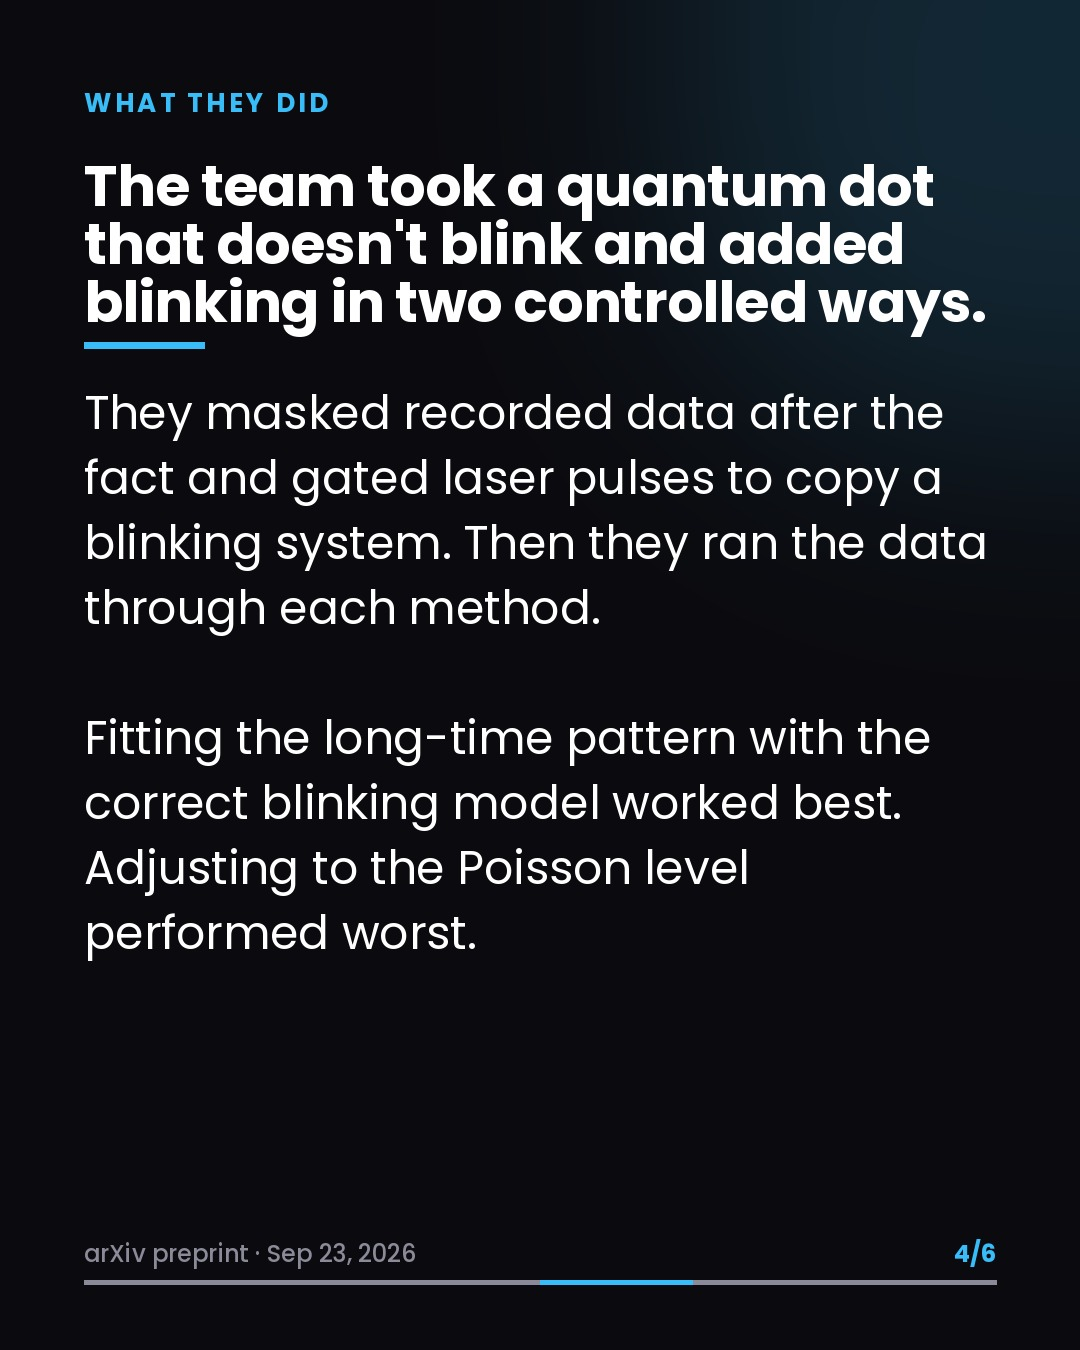
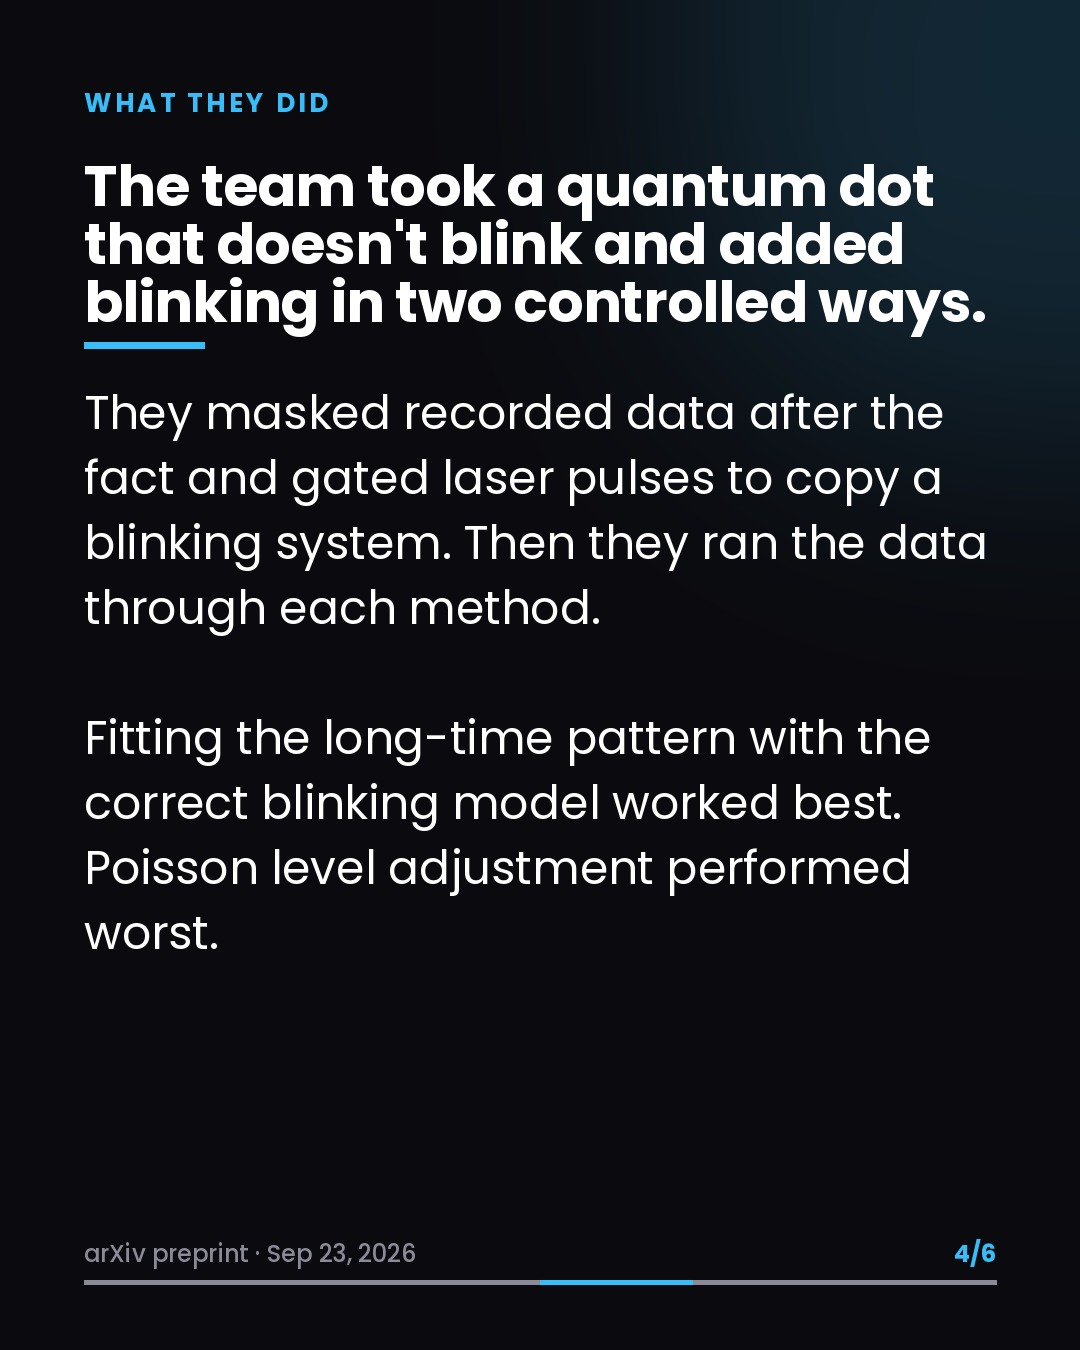
revise: 2026-09-23-physics-7a8d19ad

Changed region(s): [[0.0611, 0.6222, 0.8556, 0.7156]]

diff --git a/data/queue/2026-09-23-physics-7a8d19ad.md b/data/queue/2026-09-23-physics-7a8d19ad.md
@@ -20,9 +20,9 @@
 
 **Basis:** stated    <!-- stated = the paper says it; inferred = our read, must stay conditional -->
 
-Teams around the world are competing to build sources for quantum computers and secure messages. But they measure quality in different ways, so benchmarks can't be compared.
+Teams around the world are competing to build sources for quantum computers and secure messages. But they measure quality in different ways.
 
-This paper shows that the choice of method changes the reported quality for the same device.
+This paper shows the choice of method changes the reported quality for the same device.
 
 ## Slide 2 - Results
 
@@ -38,7 +38,7 @@ The researchers then used their model to identify the blinking pattern in a quan
 
 They masked recorded data after the fact and gated laser pulses to copy a blinking system. Then they ran the data through each method.
 
-Fitting the long-time pattern with the correct blinking model worked best. Adjusting to the Poisson level performed worst.
+Fitting the long-time pattern with the correct blinking model worked best. Poisson level adjustment performed worst.
 
 ## Caveats
 
@@ -47,7 +47,7 @@ Fitting the long-time pattern with the correct blinking model worked best. Adjus
 
 ## CTA
 
-**Headline:** Send this to the envelope-fitting sceptic
+**Headline:** Send this to your friend following quantum computing
 **Sub:** One real study, every weekday. The full paper is linked in bio.
 
 ## Caption
